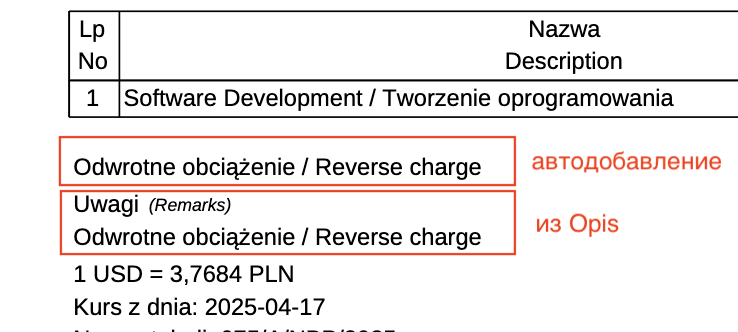
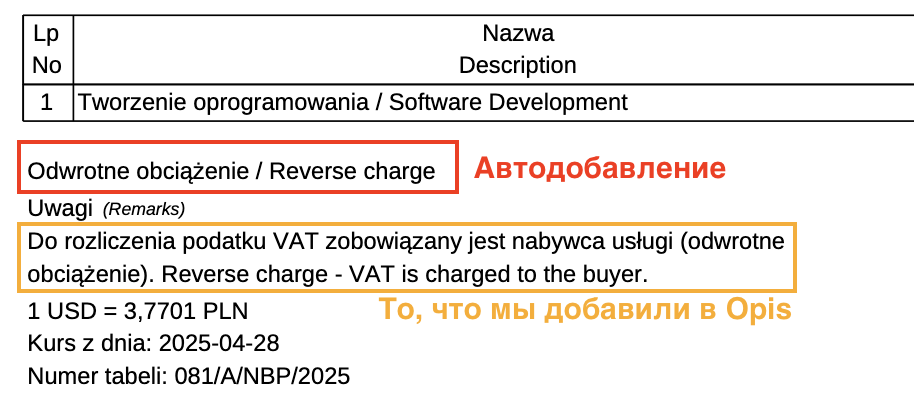
fixes

Changed region(s): [[0.0, 0.0301, 1.0, 0.9639], [0.2182, 0.994, 0.561, 1.0], [0.0935, 0.994, 0.1247, 1.0]]

diff --git a/docs/wfirma_routine.md b/docs/wfirma_routine.md
@@ -25,12 +25,13 @@
     > Непрерывные услуги могут оплачиваться в установленные заранее расчётные периоды, такие как месяц или квартал – в таком случае датой возникновения дохода считается последний день расчётного периода, указанного в договоре или на выставленной фактуре, но не реже одного раза в год.
 
     📚 Источник: [пункт 1e из Art. 14.](https://sip.lex.pl/akty-prawne/dzu-dziennik-ustaw/podatek-dochodowy-od-osob-fizycznych-16794311/art-14#:~:text=za%20dat%C4%99%20powstania%20przychodu%20uznaje%20si%C4%99%20ostatni%20dzie%C5%84%20okresu%20rozliczeniowego%20okre%C5%9Blonego%20w%20umowie)
+
 4. Termin płatności - выбираем срок оплаты, если необходимо. Считается от дня выставления фактуры.
 5. Metoda płatności - выбираем метод оплаты. Заполняется автоматически при выборе контрагента из формы контрагента.
 6. Выбираем продукт (Produkt). В нашем случае - услугу. Остальные данные заполнятся автоматически из каталога продуктов (либо введите вручную).
 7. Цена нетто (Cena netto на фактуре с VAT) или просто цена (Cena на фактуре без VAT).
 8. (для рычалта) Налоговая ставка, соответствующая коду PKWiU оказанной услуги.
-9. Если экспортируете услугу в ЕС (не в Польшу) или за пределы ЕС, то в Opis напишите:
+9. Если экспортируете услугу для юрлица (компании) с офисом в ЕС или за пределами ЕС (т.е. не в Польшу и не физлицу), то в Opis напишите:
 
     > Do rozliczenia podatku VAT zobowiązany jest nabywca usługi (odwrotne obciążenie). Reverse charge - VAT is charged to the buyer.
 
